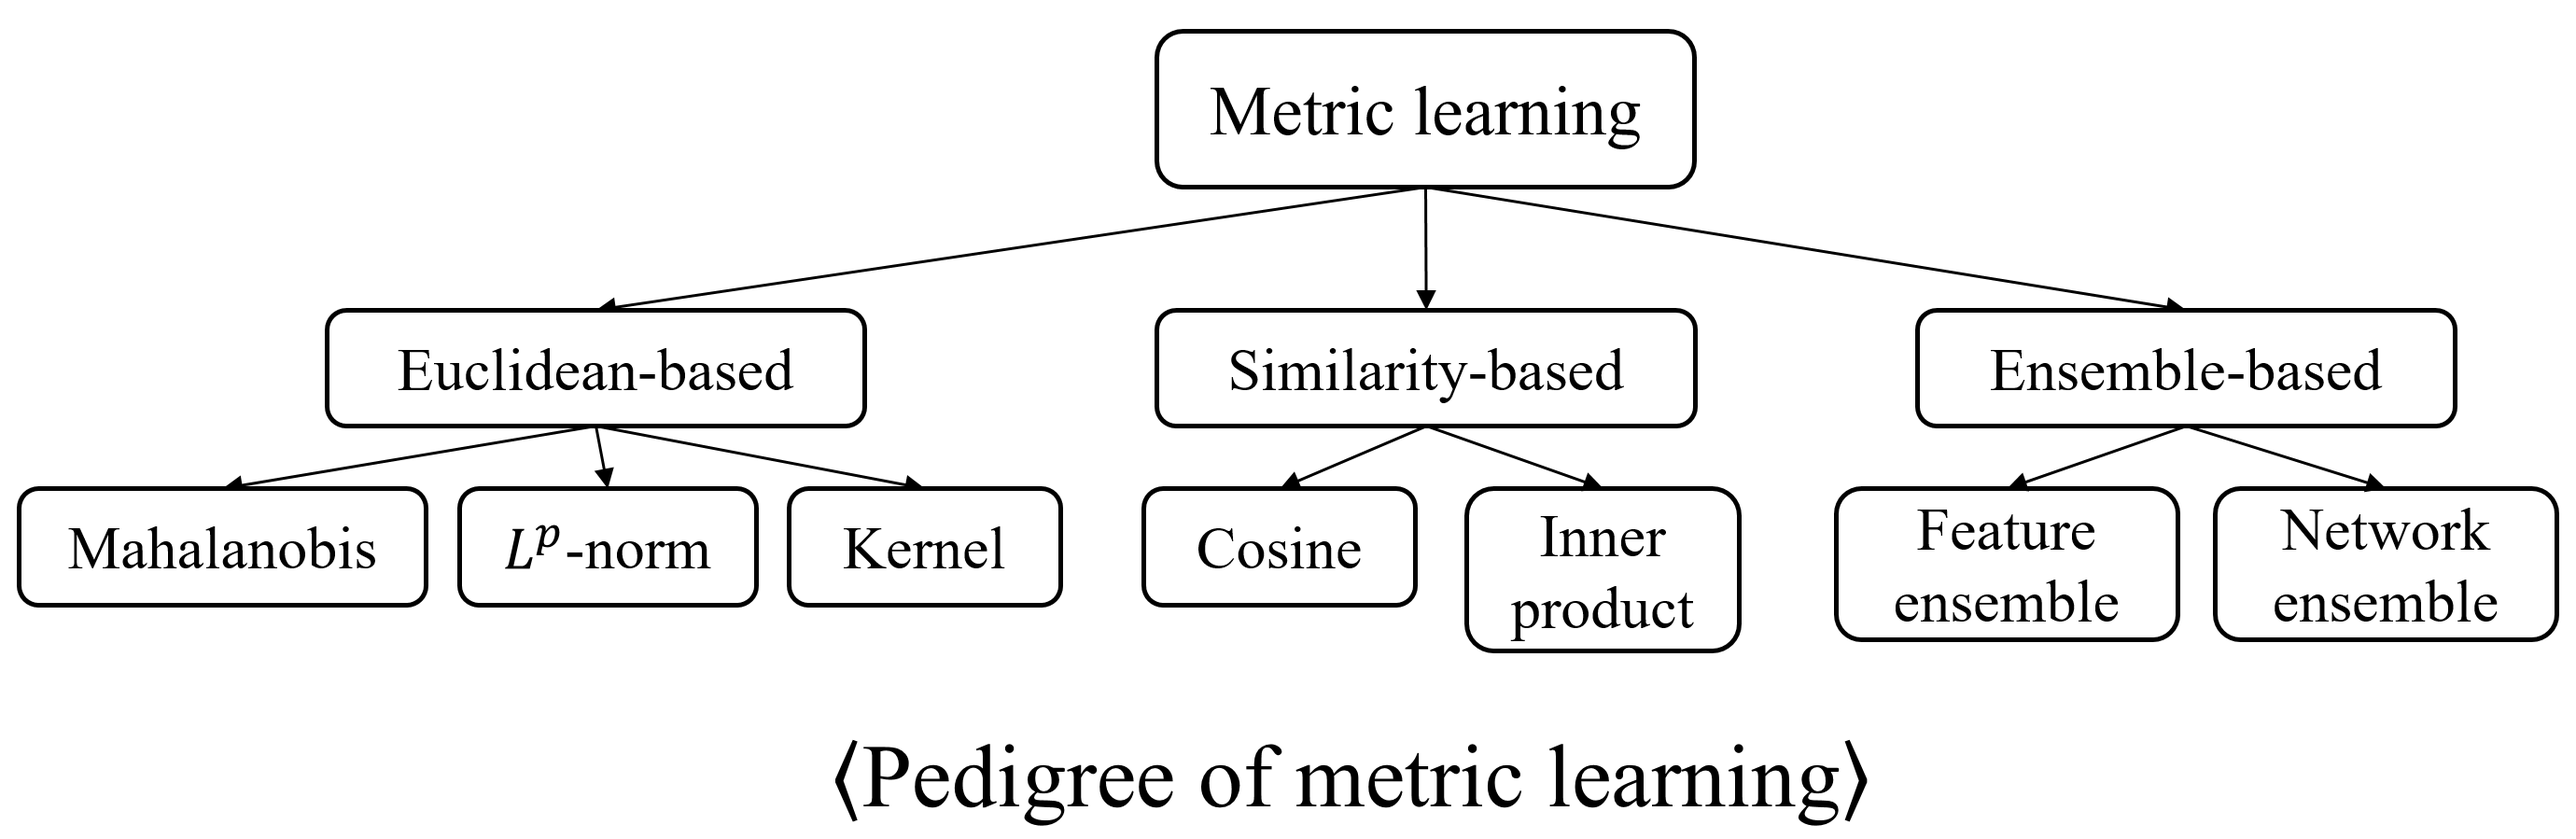
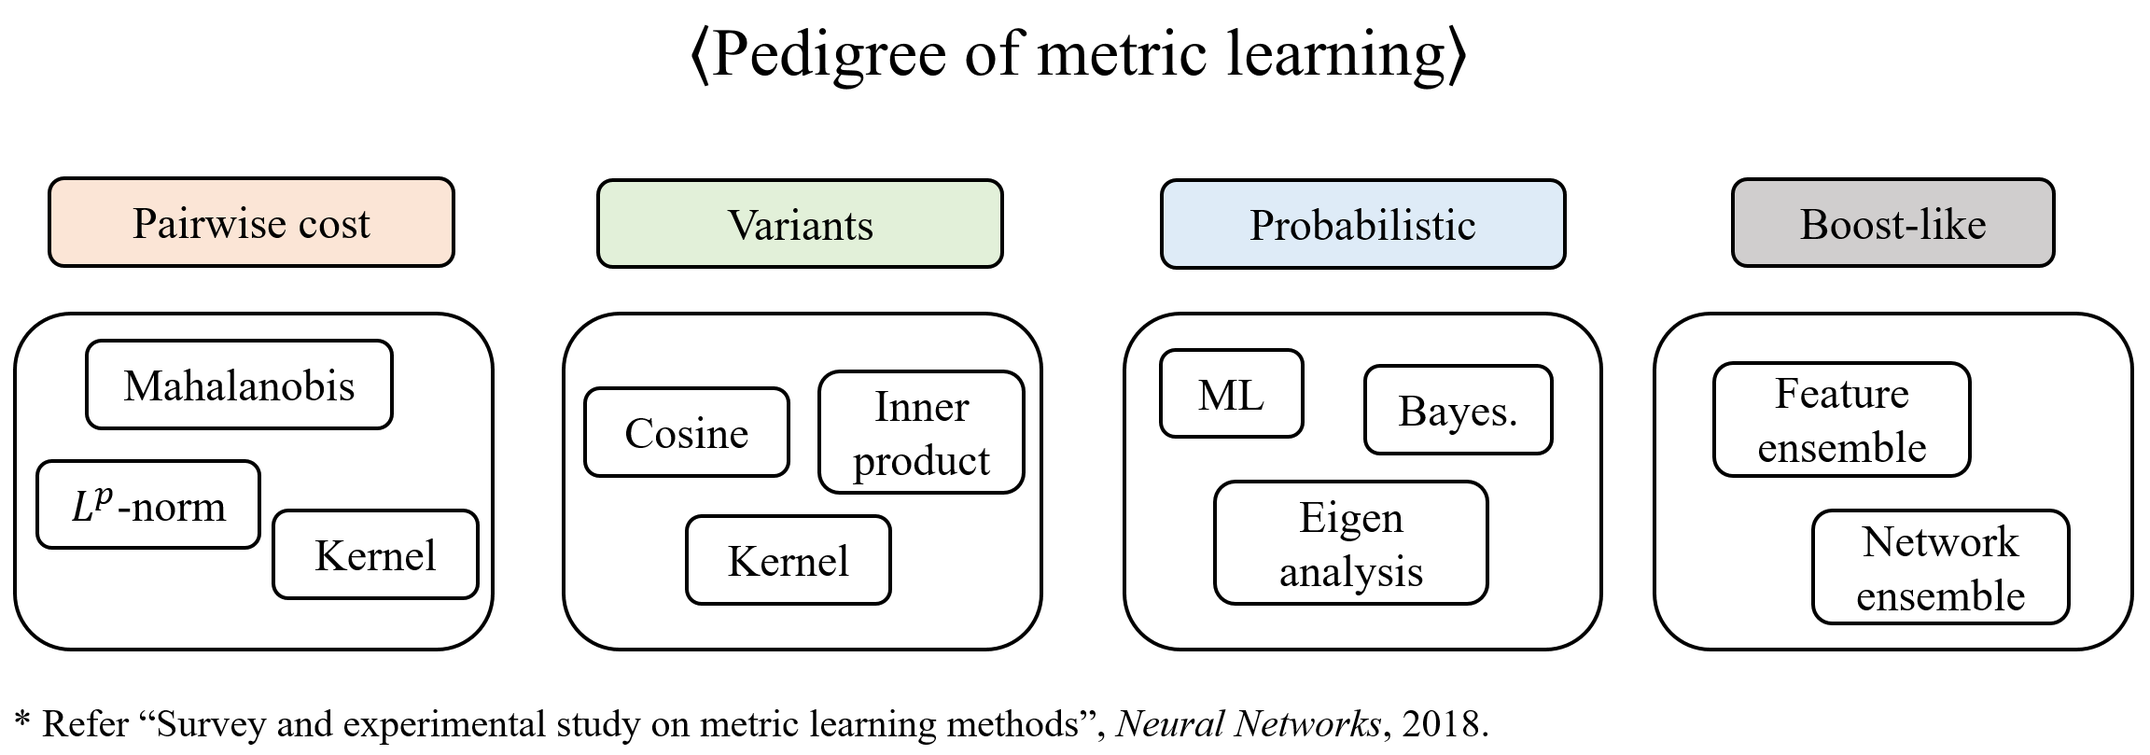
Huge update
Huge update

diff --git a/README.md b/README.md
@@ -12,7 +12,7 @@ Traditionally, they have defined metrics in a variety of ways, including Euclide
 </p>
 
 ---
-### 1⃣ Euclidean-based metric
+### 1⃣ Pairwise cost methods
 
 - Dimensionality Reduction by Learning an Invariant Mapping (Contrastive) (CVPR 2006) [[Paper]](http://yann.lecun.com/exdb/publis/pdf/hadsell-chopra-lecun-06.pdf)[[Caffe]](https://github.com/wujiyang/Contrastive-Loss)[[Tensorflow]](https://github.com/ardiya/siamesenetwork-tensorflow)[[Keras]](https://github.com/keras-team/keras/blob/master/examples/mnist_siamese.py)[[Pytorch1]](https://github.com/delijati/pytorch-siamese/blob/master/contrastive.py)[[Pytorch2]](https://github.com/bnulihaixia/Deep_metric)
 
@@ -45,7 +45,7 @@ Traditionally, they have defined metrics in a variety of ways, including Euclide
 - Deep Metric Learning to Rank (CVPR 2019) [[Paper]](http://openaccess.thecvf.com/content_CVPR_2019/papers/Cakir_Deep_Metric_Learning_to_Rank_CVPR_2019_paper.pdf)
 
 ---
-### 2⃣ Similarity-based metric
+### 2⃣ Similarity or other variant methods
 
 - Deep Metric Learning for Practical Person Re-Identification [[Paper]](https://arxiv.org/abs/1407.4979)[[Tensorflow]](https://github.com/kridgeway/f-statistic-loss-nips-2018)[[Pytorch]](https://github.com/bnulihaixia/Deep_metric)
 
@@ -55,13 +55,13 @@ Traditionally, they have defined metrics in a variety of ways, including Euclide
 
 
 ---
-### 3⃣ Integrated framework
+### 3⃣ Probabilistic methods
 
-- Adapted Deep Embeddings: A Synthesis of Methods for k-Shot Inductive Transfer Learning (NIPS 2018) [[Paper]](https://papers.nips.cc/paper/7293-adapted-deep-embeddings-a-synthesis-of-methods-for-k-shot-inductive-transfer-learning)[[Tensorflow]](https://github.com/tylersco/adapted_deep_embeddings)
+- (ongoing)
 
 
 ---
-### 4⃣ Ensemble methods
+### 4⃣ Boost-like methods
 
 - BIER-Boosting Independent Embeddings Robustly (ICCV 2017) [[Paper]](http://openaccess.thecvf.com/content_ICCV_2017/papers/Opitz_BIER_-_Boosting_ICCV_2017_paper.pdf)[[Tensorflow]](https://github.com/mop/bier)
 
@@ -232,6 +232,8 @@ Traditionally, they have defined metrics in a variety of ways, including Euclide
 
 - Bilevel Distance Metric Learning for Robust Image Recognition (NIPS 2018) [[Paper]](https://papers.nips.cc/paper/7674-bilevel-distance-metric-learning-for-robust-image-recognition)
 
+- Adapted Deep Embeddings: A Synthesis of Methods for k-Shot Inductive Transfer Learning (NIPS 2018) [[Paper]](https://papers.nips.cc/paper/7293-adapted-deep-embeddings-a-synthesis-of-methods-for-k-shot-inductive-transfer-learning)[[Tensorflow]](https://github.com/tylersco/adapted_deep_embeddings)
+
 
 #### CVPR
 
@@ -279,11 +281,13 @@ Traditionally, they have defined metrics in a variety of ways, including Euclide
 ---
 ### Milestone
 
-- [x] Add Euclidean-based metric
+- [x] Add Pairwise cost methods
 
-- [x] Add Similarity-based metric
+- [x] Add Similarity or other variant methods
 
-- [x] Add Ensemble-based metric
+- [ ] Add Probabilistic methods
+
+- [x] Add Boost-like methods
 
 - [x] Add applications
 
